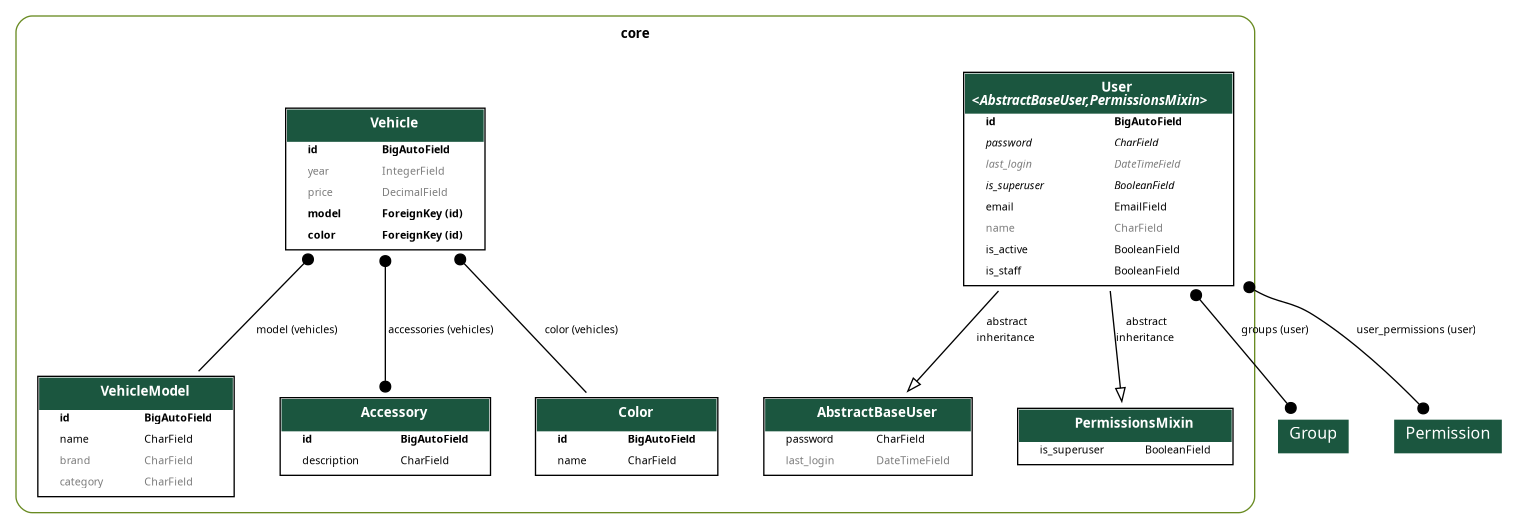
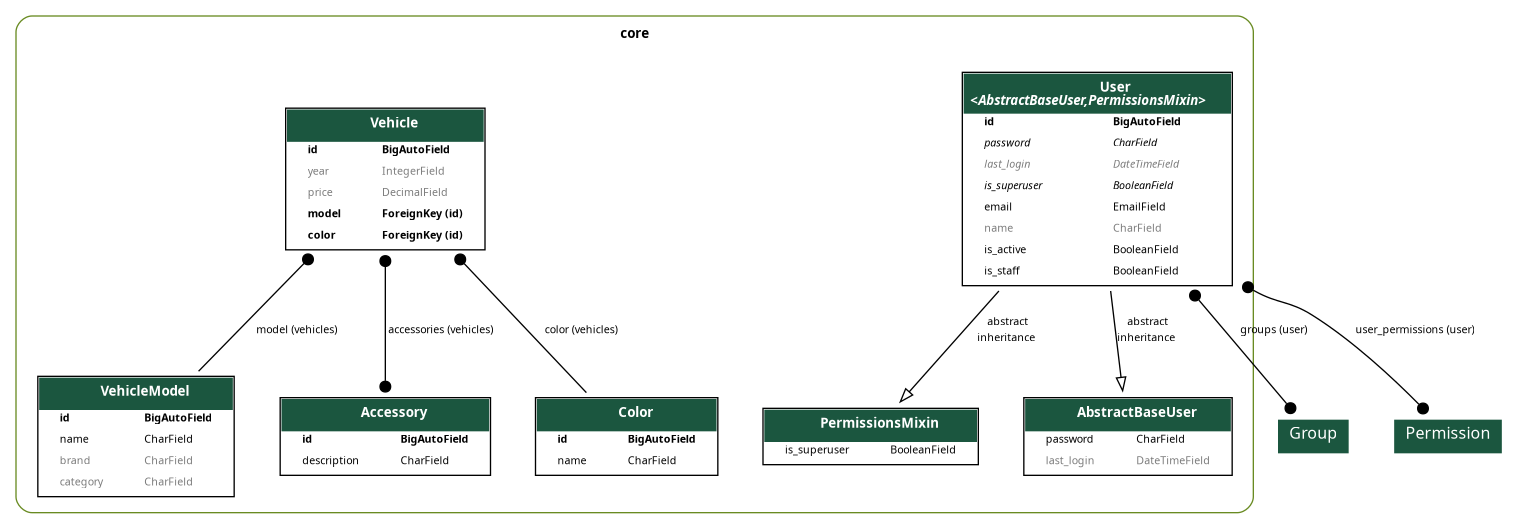
REFACTOR: standardize string quotes and update verbose name in user migration

diff --git a/app/settings.py b/app/settings.py
@@ -9,75 +9,78 @@ from dotenv import load_dotenv
 load_dotenv()
 
 # Define o modo de execução da aplicação
-MODE = os.getenv('MODE')
+MODE = os.getenv("MODE")
 
 # Constrói o caminho base do projeto, usado para definir caminhos relativos
 BASE_DIR = Path(__file__).resolve().parent.parent
 
 # Segurança e configuração básica
-SECRET_KEY = os.getenv('SECRET_KEY', 'django-insecure')
-DEBUG = os.getenv('DEBUG', 'False')
-ALLOWED_HOSTS = ['*']
+SECRET_KEY = os.getenv("SECRET_KEY", "django-insecure")
+DEBUG = os.getenv("DEBUG", "False")
+ALLOWED_HOSTS = ["*"]
 CSRF_TRUSTED_ORIGINS = [
-    'http://localhost:3000',
-    'http://localhost:8000',
+    "http://localhost:3000",
+    "http://localhost:8000",
 ]
 CORS_ALLOW_ALL_ORIGINS = True
 
 # Aplicações instaladas
 INSTALLED_APPS = [
-    'django.contrib.admin',
-    'django.contrib.auth',
-    'django.contrib.contenttypes',
-    'django.contrib.sessions',
-    'django.contrib.messages',
-    'django.contrib.staticfiles',
-    'cloudinary_storage',
-    'cloudinary',
-    'corsheaders',
-    'django_extensions',
-    'django_filters',
-    'drf_spectacular',
-    'rest_framework',
-    'core',
+    "django.contrib.admin",
+    "django.contrib.auth",
+    "django.contrib.contenttypes",
+    "django.contrib.sessions",
+    "django.contrib.messages",
+    "django.contrib.staticfiles",
+    "cloudinary_storage",
+    "cloudinary",
+    "corsheaders",
+    "django_extensions",
+    "django_filters",
+    "drf_spectacular",
+    "rest_framework",
+    "core",
 ]
 
 MIDDLEWARE = [
-    'django.middleware.security.SecurityMiddleware',
-    'whitenoise.middleware.WhiteNoiseMiddleware',
-    'django.contrib.sessions.middleware.SessionMiddleware',
-    'corsheaders.middleware.CorsMiddleware',
-    'django.middleware.common.CommonMiddleware',
-    'django.middleware.csrf.CsrfViewMiddleware',
-    'django.contrib.auth.middleware.AuthenticationMiddleware',
-    'django.contrib.messages.middleware.MessageMiddleware',
-    'django.middleware.clickjacking.XFrameOptionsMiddleware',
+    "django.middleware.security.SecurityMiddleware",
+    "whitenoise.middleware.WhiteNoiseMiddleware",
+    "django.contrib.sessions.middleware.SessionMiddleware",
+    "corsheaders.middleware.CorsMiddleware",
+    "django.middleware.common.CommonMiddleware",
+    "django.middleware.csrf.CsrfViewMiddleware",
+    "django.contrib.auth.middleware.AuthenticationMiddleware",
+    "django.contrib.messages.middleware.MessageMiddleware",
+    "django.middleware.clickjacking.XFrameOptionsMiddleware",
 ]
 
-ROOT_URLCONF = 'app.urls'
+ROOT_URLCONF = "app.urls"
 
 TEMPLATES = [
     {
-        'BACKEND': 'django.template.backends.django.DjangoTemplates',
-        'DIRS': [],
-        'APP_DIRS': True,
-        'OPTIONS': {
-            'context_processors': [
-                'django.template.context_processors.debug',
-                'django.template.context_processors.request',
-                'django.contrib.auth.context_processors.auth',
-                'django.contrib.messages.context_processors.messages',
+        "BACKEND": "django.template.backends.django.DjangoTemplates",
+        "DIRS": [],
+        "APP_DIRS": True,
+        "OPTIONS": {
+            "context_processors": [
+                "django.template.context_processors.debug",
+                "django.template.context_processors.request",
+                "django.contrib.auth.context_processors.auth",
+                "django.contrib.messages.context_processors.messages",
             ],
         },
     },
 ]
 
-WSGI_APPLICATION = 'app.wsgi.application'
+WSGI_APPLICATION = "app.wsgi.application"
 
 # Banco de dados
+DB_POSTGRESQL = os.getenv("DB_POSTGRESQL")
+
+
 DATABASES = {
-    'default': dj_database_url.config(
-        default='sqlite:///db.sqlite3',
+    "default": dj_database_url.config(
+        default=DB_POSTGRESQL,
         conn_max_age=600,
         conn_health_checks=True,
     )
@@ -86,77 +89,83 @@ DATABASES = {
 # Validação de senhas
 AUTH_PASSWORD_VALIDATORS = [
     {
-        'NAME': 'django.contrib.auth.password_validation.UserAttributeSimilarityValidator',
+        "NAME": "django.contrib.auth.password_validation.UserAttributeSimilarityValidator",
     },
     {
-        'NAME': 'django.contrib.auth.password_validation.MinimumLengthValidator',
+        "NAME": "django.contrib.auth.password_validation.MinimumLengthValidator",
     },
     {
-        'NAME': 'django.contrib.auth.password_validation.CommonPasswordValidator',
+        "NAME": "django.contrib.auth.password_validation.CommonPasswordValidator",
     },
     {
-        'NAME': 'django.contrib.auth.password_validation.NumericPasswordValidator',
+        "NAME": "django.contrib.auth.password_validation.NumericPasswordValidator",
     },
 ]
 
 # Configurações de internacionalização
-LANGUAGE_CODE = 'pt-br'
-TIME_ZONE = 'America/Sao_Paulo'
+LANGUAGE_CODE = "pt-br"
+TIME_ZONE = "America/Sao_Paulo"
 USE_I18N = True
 USE_TZ = True
 
 # Configurações de arquivos estáticos
-STATIC_URL = 'static/'
+STATIC_URL = "static/"
 
 # Configurações de arquivos de mídia (App Uploader)
-MEDIA_ENDPOINT = '/media/'
-MEDIA_ROOT = os.path.join(BASE_DIR, 'media/')
+MEDIA_ENDPOINT = "/media/"
+MEDIA_ROOT = os.path.join(BASE_DIR, "media/")
 FILE_UPLOAD_PERMISSIONS = 0o640
 
 # Configurações específicas para desenvolvimento, migração e produção
-if MODE == 'DEVELOPMENT':
-    MY_IP = os.getenv('MY_IP', '127.0.0.1')
-    MEDIA_URL = f'http://{MY_IP}:19003/media/'
+if MODE == "DEVELOPMENT":
+    MY_IP = os.getenv("MY_IP", "127.0.0.1")
+    MEDIA_URL = f"http://{MY_IP}:19003/media/"
 else:
-    MEDIA_URL = '/media/'
-    CLOUDINARY_URL = os.getenv('CLOUDINARY_URL')
-    STATIC_ROOT = os.path.join(BASE_DIR, 'staticfiles')
+    MEDIA_URL = "/media/"
+    CLOUDINARY_URL = os.getenv("CLOUDINARY_URL")
+    STATIC_ROOT = os.path.join(BASE_DIR, "staticfiles")
     STORAGES = {
-        'default': {
-            'BACKEND': 'cloudinary_storage.storage.MediaCloudinaryStorage',
+        "default": {
+            "BACKEND": "cloudinary_storage.storage.MediaCloudinaryStorage",
         },
-        'staticfiles': {
-            'BACKEND': 'whitenoise.storage.CompressedManifestStaticFilesStorage',
+        "staticfiles": {
+            "BACKEND": "whitenoise.storage.CompressedManifestStaticFilesStorage",
         },
     }
 
 # Tipo padrão de campo para chaves primárias
-DEFAULT_AUTO_FIELD = 'django.db.models.BigAutoField'
+DEFAULT_AUTO_FIELD = "django.db.models.BigAutoField"
 
 # Configurações do DRF e drf-spectacular (OpenAPI/Swagger)
 SPECTACULAR_SETTINGS = {
-    'TITLE': '<PROJETO> API',
-    'DESCRIPTION': 'API para o projeto <descreva aqui seu projeto>.',
-    'VERSION': '1.0.0',
+    "TITLE": "<PROJETO> API",
+    "DESCRIPTION": "API para o projeto <descreva aqui seu projeto>.",
+    "VERSION": "1.0.0",
 }
 
 # Modelo de usuário personalizado
-AUTH_USER_MODEL = 'core.User'
+AUTH_USER_MODEL = "core.User"
 
 # Configurações do Django REST Framework
 REST_FRAMEWORK = {
-    'DEFAULT_AUTHENTICATION_CLASSES': ('rest_framework_simplejwt.authentication.JWTAuthentication',),
-    'DEFAULT_PAGINATION_CLASS': 'app.pagination.CustomPagination',
-    'DEFAULT_SCHEMA_CLASS': 'drf_spectacular.openapi.AutoSchema',
-    'PAGE_SIZE': 10,
+    "DEFAULT_AUTHENTICATION_CLASSES": (
+        "rest_framework_simplejwt.authentication.JWTAuthentication",
+    ),
+    "DEFAULT_PAGINATION_CLASS": "app.pagination.CustomPagination",
+    "DEFAULT_SCHEMA_CLASS": "drf_spectacular.openapi.AutoSchema",
+    "PAGE_SIZE": 10,
 }
 
 # Configurações do Simple JWT
 SIMPLE_JWT = {
-    'ACCESS_TOKEN_LIFETIME': timedelta(minutes=180),  # Tokens de acesso expiram em 3 horas
-    'REFRESH_TOKEN_LIFETIME': timedelta(days=1),  # Tokens de atualização expiram em 1 dia
-    'AUTH_HEADER_TYPES': ('Bearer',),
+    "ACCESS_TOKEN_LIFETIME": timedelta(
+        minutes=180
+    ),  # Tokens de acesso expiram em 3 horas
+    "REFRESH_TOKEN_LIFETIME": timedelta(
+        days=1
+    ),  # Tokens de atualização expiram em 1 dia
+    "AUTH_HEADER_TYPES": ("Bearer",),
 }
 
 # Exibe as configurações principais para verificação
-print(f'{MODE = } \n{MEDIA_URL = } \n{DATABASES = }')
+print(f"{MODE = } \n{MEDIA_URL = } \n{DATABASES = }")

diff --git a/core/models/model.py b/core/models/model.py
@@ -1,4 +1,3 @@
-
 from django.db import models
 
 
@@ -8,6 +7,6 @@ class VehicleModel(models.Model):
     category = models.CharField(max_length=80, null=True, blank=True)
 
     def __str__(self):
-        brand = (self.brand or '').upper()
+        brand = (self.brand or "").upper()
         name = self.name.upper()
-        return f'({self.id}) {brand} {name}'.strip()
+        return f"({self.id}) {brand} {name}".strip()

diff --git a/core/migrations/0001_initial.py b/core/migrations/0001_initial.py
@@ -57,7 +57,7 @@ class Migration(migrations.Migration):
             ],
             options={
                 "verbose_name": "Usuário",
-                "verbose_name_plural": "Usuários",
+                "verbose_name_plural": "users",
             },
             managers=[
                 ("objects", core.models.user.UserManager()),
